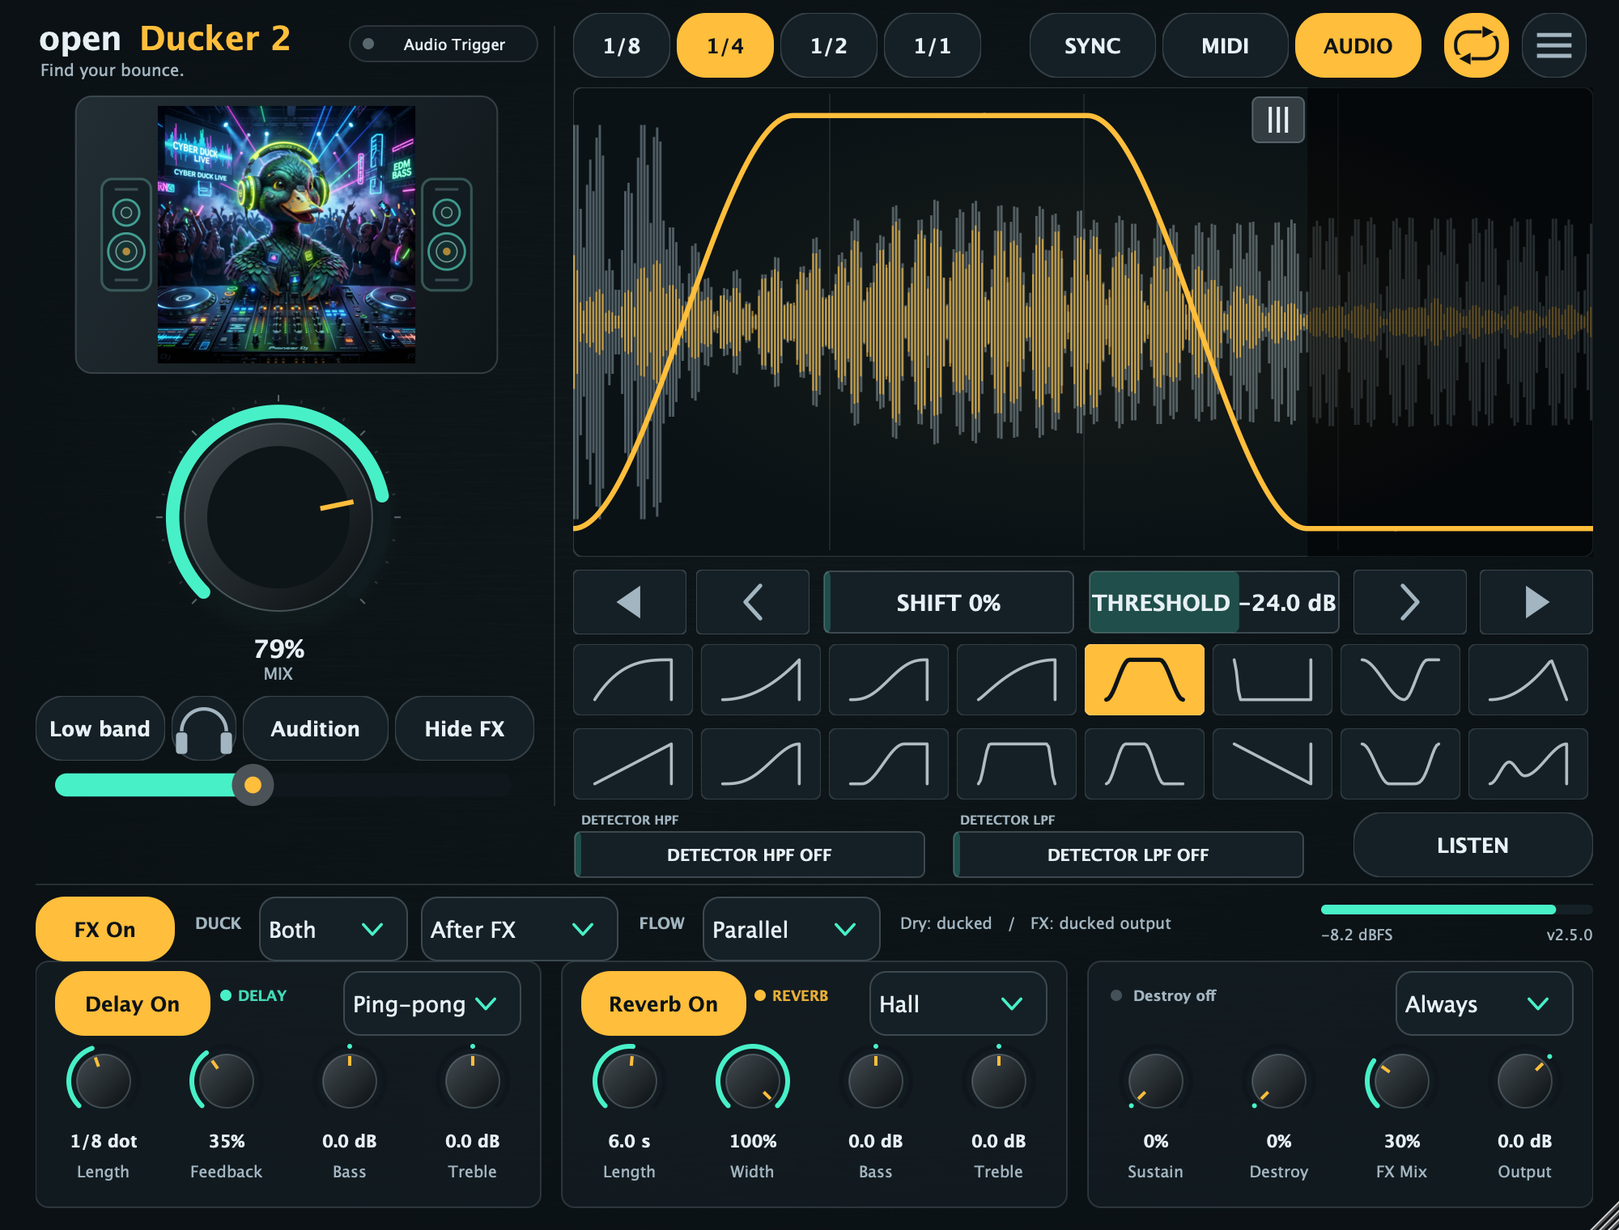
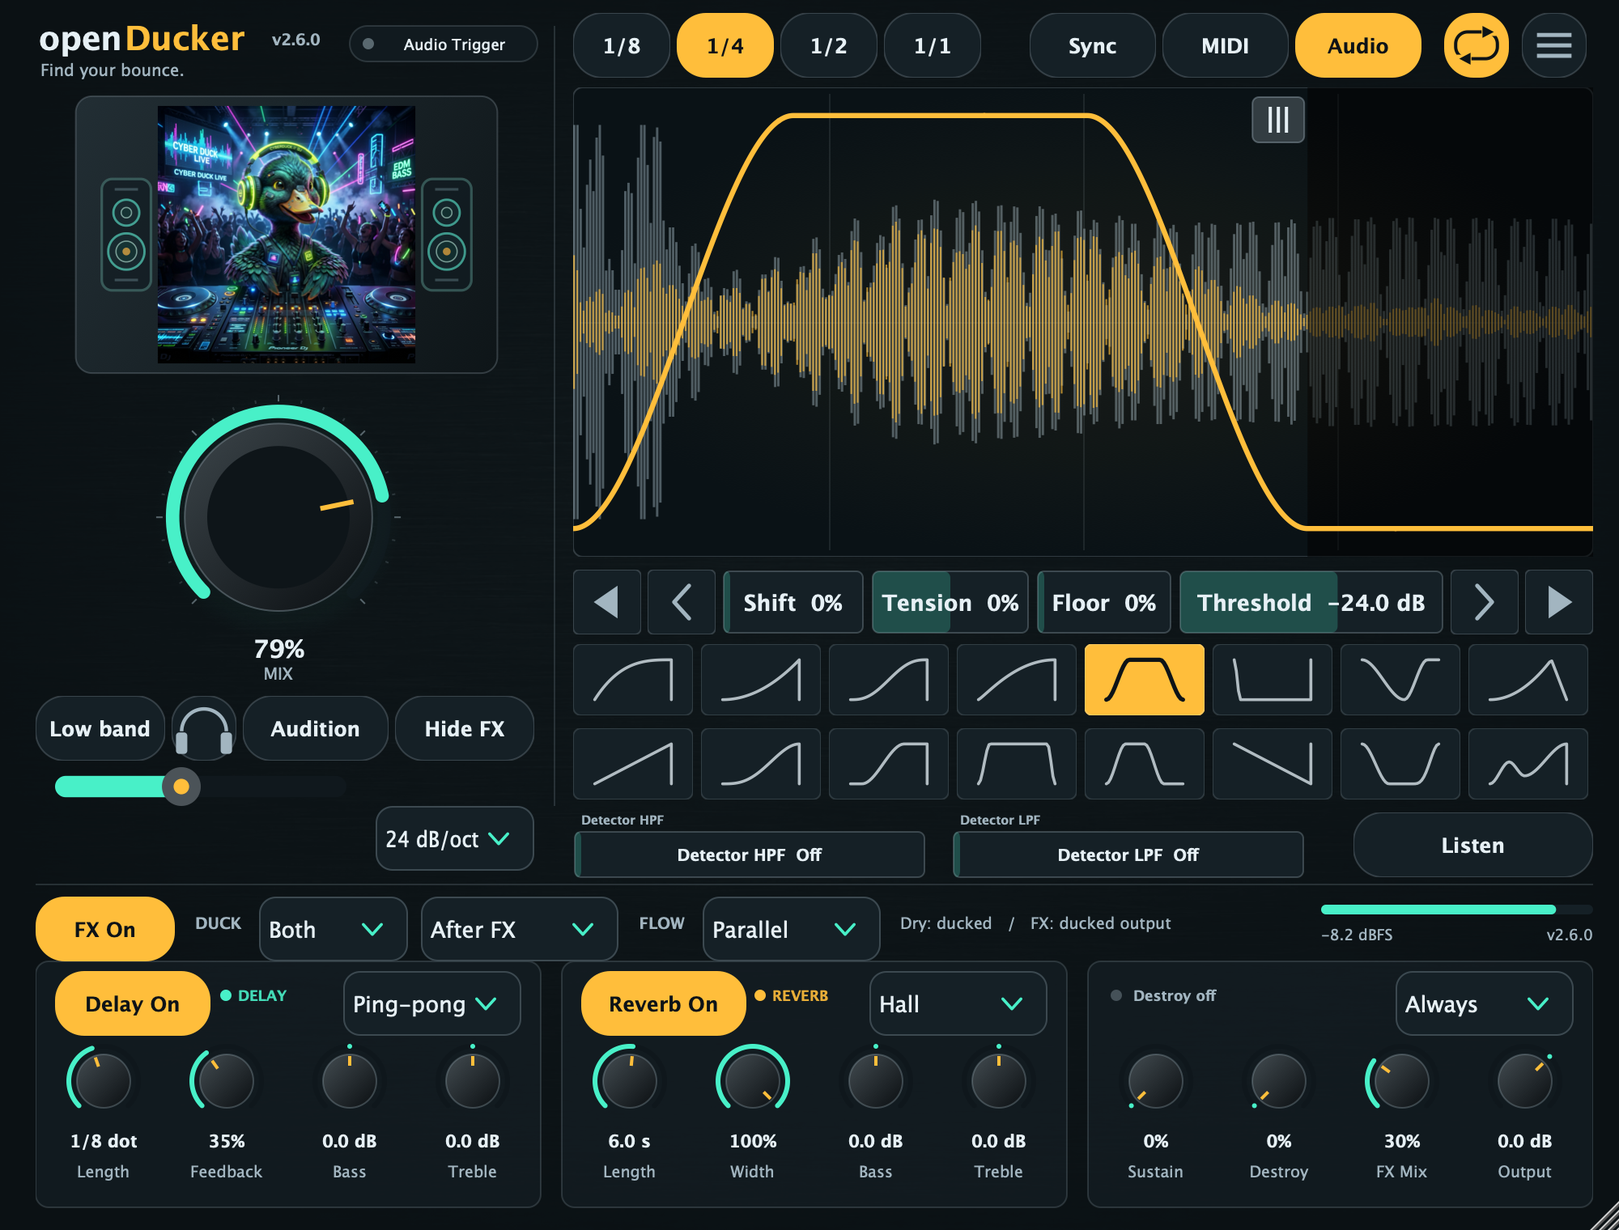
Release v2.6.0: Curve Tension Skew, Ducking Floor, Selectable Crossover Slope, and UI uniformity

diff --git a/Source/Plugin/PluginEditor.cpp b/Source/Plugin/PluginEditor.cpp
@@ -157,7 +157,7 @@ void DuckLookAndFeel::drawLinearSlider(juce::Graphics& g, int x, int y, int widt
         g.fillRoundedRectangle(bounds.withRight(std::max(bounds.getX() + 4, position)), 4);
         g.setColour(look::muted.withAlpha(0.3f));
         g.drawRoundedRectangle(bounds, 4, 1);
-        drawText(g, slider.getName().toUpperCase() + " " + slider.getTextFromValue(slider.getValue()), bounds, bounds.getHeight() * 0.42f, look::paper, juce::Justification::centred, true);
+        drawText(g, slider.getName() + "  " + slider.getTextFromValue(slider.getValue()), bounds, bounds.getHeight() * 0.42f, look::paper, juce::Justification::centred, true);
         return;
     }
     const float trackHeight = bounds.getHeight() * 0.55f;
@@ -352,14 +352,16 @@ void CurveDisplay::paint(juce::Graphics& g) {
     // Ducking curve
     const auto curveArea = juce::Rectangle<float>(0, height * 0.06f, width, height * 0.88f);
     const int curve = static_cast<int>(owner.parameters.getRawParameterValue("curve")->load());
+    const double tensionVal = owner.parameters.getRawParameterValue("tension")->load() * 0.01;
+    const double floorVal = owner.parameters.getRawParameterValue("floor")->load() * 0.01;
     juce::Path path;
     const float length = lengthFraction();
     for(int px = 0; px <= juce::roundToInt(width); ++px) {
         const float x = static_cast<float>(px);
-        const float y = curveArea.getBottom() - static_cast<float>(duck::cycleGain(curve, x / width, length)) * curveArea.getHeight();
+        const float y = curveArea.getBottom() - static_cast<float>(duck::cycleGain(curve, x / width, length, tensionVal, floorVal)) * curveArea.getHeight();
         if(px == 0) path.startNewSubPath(x, y); else path.lineTo(x, y);
     }
-    path.lineTo(width - 1, curveArea.getBottom() - static_cast<float>(duck::cycleGain(curve, 0, length)) * curveArea.getHeight());
+    path.lineTo(width - 1, curveArea.getBottom() - static_cast<float>(duck::cycleGain(curve, 0, length, tensionVal, floorVal)) * curveArea.getHeight());
 
     // Glowing stroke
     glow(g, bounds, look::yellow.withAlpha(0.06f));
@@ -426,12 +428,22 @@ DuckerEditor::DuckerEditor(DuckerProcessor& p) : AudioProcessorEditor(p), owner(
     configureBar(band, "bandFrequency", "Band", "Hz", "Band split frequency. With BAND on, only frequencies below this cutoff are ducked.");
     band.setSliderStyle(juce::Slider::LinearHorizontal); band.setDoubleClickReturnValue(true, 150);
     configureBar(shift, "shift", "Shift", "%", "Offset the curve against the beat. In MIDI and Audio modes this delays the curve after each trigger.");
+    configureBar(tension, "tension", "Tension", "%", "Warp the active ducking curve between snappy concave (-100%) and tight hold (+100%).");
+    tension.setDoubleClickReturnValue(true, 0);
+    configureBar(floor, "floor", "Floor", "%", "Minimum gain floor at the bottom of the ducking curve (0% = full mute, 100% = no ducking).");
+    floor.setDoubleClickReturnValue(true, 0);
     configureBar(threshold, "threshold", "Threshold", "dB", "Audio trigger level. Uses the sidechain input when connected, otherwise the main input.");
     threshold.setDoubleClickReturnValue(true, -24);
+    bandSlope.setComponentID("bandSlope");
+    bandSlope.setName("Band slope");
+    bandSlope.addItemList({"12 dB/oct", "24 dB/oct", "48 dB/oct"}, 1);
+    bandSlope.setTooltip("Crossover filter steepness for Low Band ducking mode.");
+    addAndMakeVisible(bandSlope);
+    bandSlopeAttachment = std::make_unique<ComboBoxAttachment>(p.parameters, "bandSlope", bandSlope);
     configureBar(detectorHpf, "detectorHpf", "Detector HPF", "Hz", "High-pass filter on the audio-trigger detector. 0 Hz bypasses it.");
     configureBar(detectorLpf, "detectorLpf", "Detector LPF", "Hz", "Low-pass filter on the audio-trigger detector. 0 Hz bypasses it.");
-    detectorHpf.textFromValueFunction = [](double value) { return value < 1.0 ? juce::String("OFF") : juce::String(juce::roundToInt(value)) + " Hz"; };
-    detectorLpf.textFromValueFunction = [](double value) { return value < 1.0 ? juce::String("OFF") : juce::String(juce::roundToInt(value)) + " Hz"; };
+    detectorHpf.textFromValueFunction = [](double value) { return value < 1.0 ? juce::String("Off") : juce::String(juce::roundToInt(value)) + " Hz"; };
+    detectorLpf.textFromValueFunction = [](double value) { return value < 1.0 ? juce::String("Off") : juce::String(juce::roundToInt(value)) + " Hz"; };
     detectorHpf.setDoubleClickReturnValue(true, 0);
     detectorLpf.setDoubleClickReturnValue(true, 0);
     detectorHpfLabel.setComponentID("detectorHpfLabel");
@@ -456,7 +468,7 @@ DuckerEditor::DuckerEditor(DuckerProcessor& p) : AudioProcessorEditor(p), owner(
         rateButtons[i].onClick = [this, i] { setChoice("rate", static_cast<int>(i)); };
         addAndMakeVisible(rateButtons[i]);
     }
-    const juce::StringArray triggerNames {"SYNC", "MIDI", "AUDIO"};
+    const juce::StringArray triggerNames {"Sync", "MIDI", "Audio"};
     const juce::StringArray triggerTips {"Loop the curve with the host transport.", "Restart the curve on every incoming MIDI note.",
         "Restart the curve when the sidechain (or main input) crosses the threshold."};
     for(size_t i = 0; i < triggerButtons.size(); ++i) {
@@ -530,6 +542,8 @@ void DuckerEditor::configureBar(juce::Slider& slider, const char* id, const juce
     auto attachment = std::make_unique<SliderAttachment>(owner.parameters, id, slider);
     if(juce::String(id) == "bandFrequency") bandAttachment = std::move(attachment);
     else if(juce::String(id) == "shift") shiftAttachment = std::move(attachment);
+    else if(juce::String(id) == "tension") tensionAttachment = std::move(attachment);
+    else if(juce::String(id) == "floor") floorAttachment = std::move(attachment);
     else if(juce::String(id) == "detectorHpf") detectorHpfAttachment = std::move(attachment);
     else if(juce::String(id) == "detectorLpf") detectorLpfAttachment = std::move(attachment);
     else thresholdAttachment = std::move(attachment);
@@ -582,13 +596,14 @@ void DuckerEditor::resized() {
         return juce::Rectangle<float>(x * s, y * s, w * s, h * s).toNearestInt();
     };
 
-    // Left column: DJ Duck is at y=56..240, Mix knob at y=244..424, Band & FX toggle section at y=430..498
+    // Left column: DJ Duck is at y=56..240, Mix knob at y=244..424, Band & FX toggle section at y=430..538
     mix.setBounds(area(70, 244, 204, 180));
     bandButton.setBounds(area(22, 430, 80, 40));
     solo.setBounds(area(106, 430, 40, 40));
     pushItButton.setBounds(area(150, 430, 90, 40));
     effectsToggle.setBounds(area(244, 430, 86, 40));
-    band.setBounds(area(22, 472, 306, 26));
+    band.setBounds(area(22, 474, 204, 24));
+    bandSlope.setBounds(area(232, 498, 98, 40));
 
     // Right column
     for(size_t i = 0; i < rateButtons.size(); ++i) rateButtons[i].setBounds(area(354 + static_cast<float>(i) * 64, 8, 60, 40));
@@ -598,12 +613,14 @@ void DuckerEditor::resized() {
 
     display.setBounds(area(354, 54, 630, 290));
 
-    previousBank.setBounds(area(354, 352, 70, 40));
-    previous.setBounds(area(430, 352, 70, 40));
-    shift.setBounds(area(508, 352, 156, 40));
-    threshold.setBounds(area(672, 352, 156, 40));
-    next.setBounds(area(836, 352, 70, 40));
-    nextBank.setBounds(area(914, 352, 70, 40));
+    previousBank.setBounds(area(354, 352, 42, 40));
+    previous.setBounds(area(400, 352, 42, 40));
+    shift.setBounds(area(446, 352, 88, 40));
+    tension.setBounds(area(538, 352, 98, 40));
+    floor.setBounds(area(640, 352, 84, 40));
+    threshold.setBounds(area(728, 352, 164, 40));
+    next.setBounds(area(896, 352, 42, 40));
+    nextBank.setBounds(area(942, 352, 42, 40));
 
     for(size_t i = 0; i < curveButtons.size(); ++i)
         curveButtons[i]->setBounds(area(354 + static_cast<float>(i % 8) * 79, i < 8 ? 398 : 450, 74, 44));
@@ -682,8 +699,11 @@ void DuckerEditor::paint(juce::Graphics& g) {
     const float s = static_cast<float>(getWidth()) / 1000.0f;
 
     // Header branding
-    drawText(g, "open", {24 * s, 10 * s, 65 * s, 26 * s}, 24 * s, look::paper, juce::Justification::centredLeft, true);
-    drawText(g, "Ducker 2", {86 * s, 10 * s, 160 * s, 26 * s}, 24 * s, look::yellow, juce::Justification::centredLeft, true);
+    g.setFont(juce::FontOptions(24 * s, juce::Font::bold));
+    const float openWidth = static_cast<float>(juce::GlyphArrangement::getStringWidthInt(g.getCurrentFont(), "open"));
+    drawText(g, "open", {24 * s, 10 * s, openWidth + 4 * s, 26 * s}, 24 * s, look::paper, juce::Justification::centredLeft, true);
+    drawText(g, "Ducker", {24 * s + openWidth + 1 * s, 10 * s, 100 * s, 26 * s}, 24 * s, look::yellow, juce::Justification::centredLeft, true);
+    drawText(g, "v" JucePlugin_VersionString, {24 * s + openWidth + 92 * s, 14 * s, 50 * s, 20 * s}, 11.5f * s, look::muted, juce::Justification::centredLeft, true);
     drawText(g, "Find your bounce.", {25 * s, 35 * s, 180 * s, 16 * s}, 12 * s, look::muted, juce::Justification::centredLeft, false);
 
     // Host / Trigger Sync Status Pill

diff --git a/Source/Plugin/PluginProcessor.cpp b/Source/Plugin/PluginProcessor.cpp
@@ -6,8 +6,9 @@
 namespace {
 double trimGain(float db) { return std::pow(10.0, std::round(static_cast<double>(db) * 100) / 2000); }
 constexpr std::array<double, 8> delayBeats {0.125, 0.25, 0.5, 0.75, 1, 1.5, 2, 4};
-constexpr std::array<const char*, 16> ids {"mix", "curve", "rate", "length", "shift", "trigger", "retrigger", "threshold",
-    "smoothing", "bandOn", "bandFrequency", "bandSolo", "bypass", "detectorHpf", "detectorLpf", "detectorMonitor"};
+constexpr std::array<const char*, 19> ids {"mix", "curve", "rate", "length", "shift", "trigger", "retrigger", "threshold",
+    "smoothing", "bandOn", "bandFrequency", "bandSolo", "bypass", "detectorHpf", "detectorLpf", "detectorMonitor",
+    "tension", "floor", "bandSlope"};
 constexpr std::array<const char*, 21> fxIds {"fxEnabled", "duckTarget", "duckPosition", "fxMix", "delayEnabled", "delayLength",
     "delayFeedback", "delayBass", "delayTreble", "delayMode", "reverbEnabled", "reverbType",
     "reverbLength", "reverbWidth", "reverbBass", "reverbTreble", "sustain", "destroy", "output", "fxFlow", "destroyMode"};
@@ -65,6 +66,9 @@ juce::AudioProcessorValueTreeState::ParameterLayout DuckerProcessor::layout() {
     number("output", "Output", {-24, 12, 0.01f}, 0, "dB", 2);
     choice("fxFlow", "FX flow", {"Serial", "Parallel"}, 1, 2);
     choice("destroyMode", "Destroy mode", {"Tail", "Always"}, 1, 2);
+    number("tension", "Curve tension", {-100, 100, 0.5f}, 0, "%", 3);
+    number("floor", "Duck floor", {0, 100, 0.5f}, 0, "%", 3);
+    choice("bandSlope", "Band slope", {"12 dB/oct", "24 dB/oct", "48 dB/oct"}, 1, 3);
     return result;
 }
 
@@ -155,8 +159,9 @@ template<typename Sample> void DuckerProcessor::process(juce::AudioBuffer<Sample
     }
     const auto trigger = static_cast<duck::Trigger>(juce::jlimit(0, 2, static_cast<int>(value(TriggerMode))));
     engine.beginBlock(t, {static_cast<int>(value(Curve)), static_cast<int>(value(Rate)), static_cast<int>(value(Smoothing)),
-        value(Length) * 0.01, value(Shift) * 0.01, trigger, value(Retrigger) > 0.5f});
+        value(Length) * 0.01, value(Shift) * 0.01, trigger, value(Retrigger) > 0.5f, value(Tension) * 0.01, value(Floor) * 0.01});
     detector.setThresholdDb(value(Threshold));
+    crossover.setSlope(static_cast<int>(value(BandSlope)));
     if(std::abs(value(BandFrequency) - bandFrequency) > 0.001) { bandFrequency = value(BandFrequency); crossover.setFrequency(bandFrequency); }
     const bool inactive = bypassed || value(Bypass) > 0.5f;
     const bool band = value(BandOn) > 0.5f;
@@ -321,6 +326,12 @@ void DuckerProcessor::setStateInformation(const void* data, int size) {
             auto* parameter = parameters.getParameter(id);
             juce::ValueTree child {"PARAM"}; child.setProperty("id", id, nullptr);
             child.setProperty("value", juce::String(id) == "fxFlow" || juce::String(id) == "destroyMode" ? 0.0f : parameter->convertFrom0to1(parameter->getDefaultValue()), nullptr);
+            state.addChild(child, -1, nullptr);
+        }
+        for(const auto* id : {"tension", "floor", "bandSlope"}) if(!state.getChildWithProperty("id", id).isValid()) {
+            auto* parameter = parameters.getParameter(id);
+            juce::ValueTree child {"PARAM"}; child.setProperty("id", id, nullptr);
+            child.setProperty("value", parameter->convertFrom0to1(parameter->getDefaultValue()), nullptr);
             state.addChild(child, -1, nullptr);
         }
         parameters.replaceState(state);

diff --git a/Source/Core/Ducker.cpp b/Source/Core/Ducker.cpp
@@ -8,9 +8,16 @@ double fraction(double x) noexcept { return x - std::floor(x); }
 bool usableBpm(double bpm) noexcept { return std::isfinite(bpm) && bpm > 0 && bpm <= 10000; }
 }
 
-double cycleGain(int curve, double phase, double length) noexcept {
+double cycleGain(int curve, double phase, double length, double tension, double floor) noexcept {
     length = std::clamp(length, 0.05, 1.0);
-    return curveValue(curve, std::clamp(phase, 0.0, 1.0) / length);
+    double x = std::clamp(phase, 0.0, 1.0) / length;
+    if (x < 1.0 && std::abs(tension) > 1e-4) {
+        const double expFactor = std::pow(2.5, -std::clamp(tension, -1.0, 1.0));
+        x = std::pow(x, expFactor);
+    }
+    const double raw = curveValue(curve, x);
+    floor = std::clamp(floor, 0.0, 1.0);
+    return floor + (1.0 - floor) * raw;
 }
 
 void Engine::prepare(double rate) noexcept {
@@ -28,6 +35,8 @@ void Engine::beginBlock(Transport t, Parameters p) noexcept {
     p.smoothing = std::clamp(p.smoothing, 0, static_cast<int>(smoothingMilliseconds.size()) - 1);
     p.length = std::isfinite(p.length) ? std::clamp(p.length, 0.05, 1.0) : 1.0;
     p.shift = std::isfinite(p.shift) ? std::clamp(p.shift, 0.0, 1.0) : 0.0;
+    p.tension = std::isfinite(p.tension) ? std::clamp(p.tension, -1.0, 1.0) : 0.0;
+    p.floor = std::isfinite(p.floor) ? std::clamp(p.floor, 0.0, 1.0) : 0.0;
     parameters = p;
     const double milliseconds = smoothingMilliseconds[static_cast<size_t>(p.smoothing)];
     smoothingCoefficient = milliseconds > 0 ? std::exp(-1.0 / (milliseconds * 0.001 * sampleRate)) : 0.0;
@@ -60,7 +69,7 @@ double Engine::nextGain() noexcept {
         freePhase = fraction(currentCyclePhase);
         lastPhase = fraction(freePhase - parameters.shift);
         if(lastPhase < 0.0) lastPhase += 1.0;
-        target = cycleGain(parameters.curve, lastPhase, parameters.length);
+        target = cycleGain(parameters.curve, lastPhase, parameters.length, parameters.tension, parameters.floor);
         ++offset;
         gain = target + (gain - target) * smoothingCoefficient;
         return std::clamp(gain, 0.0, 1.0);
@@ -71,7 +80,7 @@ double Engine::nextGain() noexcept {
         elapsed += 1;
         if(phase >= 1) isRunning = false;
         lastPhase = std::clamp(phase, 0.0, 1.0);
-        if(isRunning && phase >= 0) target = cycleGain(parameters.curve, phase, parameters.length);
+        if(isRunning && phase >= 0) target = cycleGain(parameters.curve, phase, parameters.length, parameters.tension, parameters.floor);
     }
     ++offset;
     gain = target + (gain - target) * smoothingCoefficient;

diff --git a/Tools/PluginTests.cpp b/Tools/PluginTests.cpp
@@ -512,8 +512,14 @@ void testControls(DuckerProcessor& p, juce::AudioProcessorEditor& editor) {
     require(get(p, "bandSolo") == 1, "Band solo disconnected");
     control<juce::Slider>(editor, "bandFrequency").setValue(300, juce::sendNotificationSync);
     require(std::abs(get(p, "bandFrequency") - 300) < 1, "Band slider disconnected");
+    control<juce::ComboBox>(editor, "bandSlope").setSelectedId(3, juce::sendNotificationSync);
+    require(std::abs(get(p, "bandSlope") - 2) < 0.01f, "Band slope selector disconnected");
     control<juce::Slider>(editor, "shift").setValue(25, juce::sendNotificationSync);
     require(std::abs(get(p, "shift") - 25) < 0.1, "Shift slider disconnected");
+    control<juce::Slider>(editor, "tension").setValue(40, juce::sendNotificationSync);
+    require(std::abs(get(p, "tension") - 40) < 0.5, "Tension slider disconnected");
+    control<juce::Slider>(editor, "floor").setValue(20, juce::sendNotificationSync);
+    require(std::abs(get(p, "floor") - 20) < 0.5, "Floor slider disconnected");
     control<juce::Slider>(editor, "threshold").setValue(-12, juce::sendNotificationSync);
     require(std::abs(get(p, "threshold") + 12) < 0.1, "Threshold slider disconnected");
     control<juce::Slider>(editor, "detectorHpf").setValue(1200, juce::sendNotificationSync);
@@ -535,7 +541,7 @@ void testControls(DuckerProcessor& p, juce::AudioProcessorEditor& editor) {
     require(std::abs(get(p, "length") - 50) < 1, "Dragging the handle does not set the slope length");
     display.mouseDoubleClick(event({width * 0.5f, 100}, false));
     require(get(p, "length") == 100, "Double-clicking the handle does not reset the slope length");
-    set(p, "bandOn", 0); set(p, "bandSolo", 0); set(p, "shift", 0); set(p, "retrigger", 1);
+    set(p, "bandOn", 0); set(p, "bandSolo", 0); set(p, "shift", 0); set(p, "tension", 0); set(p, "floor", 0); set(p, "bandSlope", 1); set(p, "retrigger", 1);
 }
 }
 

diff --git a/Source/Plugin/PluginEditor.h b/Source/Plugin/PluginEditor.h
@@ -74,9 +74,10 @@ private:
     juce::TextButton effectsToggle;
     juce::TextButton pushItButton {"Audition"};
     bool effectsExpanded = true;
-    juce::Slider mix, band, shift, threshold, detectorHpf, detectorLpf;
-    juce::Label detectorHpfLabel {{}, "DETECTOR HPF"}, detectorLpfLabel {{}, "DETECTOR LPF"};
-    juce::TextButton detectorMonitorButton {"LISTEN"};
+    juce::Slider mix, band, shift, threshold, detectorHpf, detectorLpf, tension, floor;
+    juce::ComboBox bandSlope;
+    juce::Label detectorHpfLabel {{}, "Detector HPF"}, detectorLpfLabel {{}, "Detector LPF"};
+    juce::TextButton detectorMonitorButton {"Listen"};
     std::array<juce::TextButton, 4> rateButtons;
     std::array<juce::TextButton, 3> triggerButtons;
     juce::TextButton bandButton;
@@ -89,8 +90,10 @@ private:
     juce::TooltipWindow tooltips {this, 600};
     using SliderAttachment = juce::AudioProcessorValueTreeState::SliderAttachment;
     using ButtonAttachment = juce::AudioProcessorValueTreeState::ButtonAttachment;
+    using ComboBoxAttachment = juce::AudioProcessorValueTreeState::ComboBoxAttachment;
     std::unique_ptr<SliderAttachment> mixAttachment, bandAttachment, shiftAttachment, thresholdAttachment,
-        detectorHpfAttachment, detectorLpfAttachment;
+        detectorHpfAttachment, detectorLpfAttachment, tensionAttachment, floorAttachment;
+    std::unique_ptr<ComboBoxAttachment> bandSlopeAttachment;
     std::unique_ptr<ButtonAttachment> retriggerAttachment, soloAttachment, bandButtonAttachment, detectorMonitorAttachment;
     std::unique_ptr<juce::ParameterAttachment> rateAttachment, triggerAttachment, curveAttachment;
     JUCE_DECLARE_NON_COPYABLE_WITH_LEAK_DETECTOR(DuckerEditor)

diff --git a/Source/Core/Crossover.h b/Source/Core/Crossover.h
@@ -11,6 +11,7 @@ struct Bands { double low = 0, high = 0; };
 class Crossover {
 public:
     void prepare(double rate) noexcept { sampleRate = rate; states = {}; setFrequency(frequency); }
+    void setSlope(int slopeIndex) noexcept { slopeMode = std::clamp(slopeIndex, 0, 2); }
     void setFrequency(double hertz) noexcept {
         frequency = std::clamp(hertz, 20.0, sampleRate * 0.45);
         const double omega = 6.283185307179586 * frequency / sampleRate;
@@ -22,7 +23,15 @@ public:
     }
     Bands split(size_t channel, double input) noexcept {
         auto& state = states[std::min<size_t>(channel, 1)];
-        return {run(low, state[0], run(low, state[1], input)), run(high, state[2], run(high, state[3], input))};
+        if (slopeMode == 0) {
+            return {run(low, state[0], input), run(high, state[2], input)};
+        }
+        const double l24 = run(low, state[0], run(low, state[1], input));
+        const double h24 = run(high, state[2], run(high, state[3], input));
+        if (slopeMode == 1) {
+            return {l24, h24};
+        }
+        return {run(low, state[4], run(low, state[5], l24)), run(high, state[6], run(high, state[7], h24))};
     }
 private:
     struct Coefficients { double b0 = 0, b1 = 0, b2 = 0; };
@@ -34,7 +43,8 @@ private:
         return y;
     }
     double sampleRate = 48000, frequency = 150, a1 = 0, a2 = 0;
+    int slopeMode = 1;
     Coefficients low, high;
-    std::array<std::array<Stage, 4>, 2> states {};
+    std::array<std::array<Stage, 8>, 2> states {};
 };
 }

diff --git a/Source/Plugin/PluginProcessor.h b/Source/Plugin/PluginProcessor.h
@@ -52,7 +52,7 @@ private:
     uint32_t demoSeed = 0x9e3779b9;
     float demoFilterL = 0, demoFilterR = 0;
     enum Id { Mix, Curve, Rate, Length, Shift, TriggerMode, Retrigger, Threshold, Smoothing, BandOn, BandFrequency, BandSolo, Bypass,
-        DetectorHpf, DetectorLpf, DetectorMonitor, IdCount };
+        DetectorHpf, DetectorLpf, DetectorMonitor, Tension, Floor, BandSlope, IdCount };
     enum FxParameter { FxEnabled, DuckTarget, DuckPosition, FxMix, DelayEnabled, DelayLength,
         DelayFeedback, DelayBass, DelayTreble, DelayMode, ReverbEnabled, ReverbType,
         ReverbLength, ReverbWidth, ReverbBass, ReverbTreble, Sustain, Destroy, Output, FxFlow, DestroyMode, FxCount };

diff --git a/Source/Core/Ducker.h b/Source/Core/Ducker.h
@@ -16,11 +16,12 @@ struct Parameters {
     double length = 1, shift = 0; // fractions of the cycle
     Trigger trigger = Trigger::Sync;
     bool retrigger = true;
+    double tension = 0, floor = 0;
 };
 
 /// Gain of the selected curve at a cycle phase. The curve spans `length` of the cycle,
 /// then holds its final value until the cycle restarts.
-double cycleGain(int curve, double phase, double length) noexcept;
+double cycleGain(int curve, double phase, double length, double tension = 0.0, double floor = 0.0) noexcept;
 
 class Engine {
 public:
